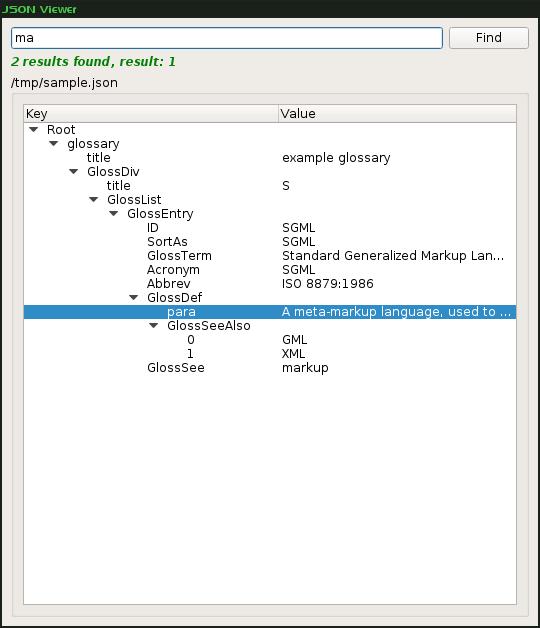
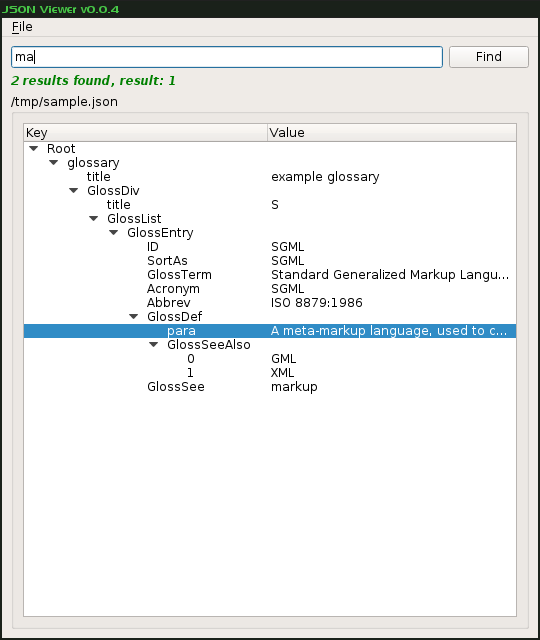
Minor changes, version bump, update screeny

Changed region(s): [[0.0, 0.0, 0.9778, 0.6354]]

diff --git a/json_viewer.py b/json_viewer.py
@@ -3,7 +3,7 @@
 __author__ = "Ashwin Nanjappa, Abdul Arfan, Zhangxiao, Krayon";
 __credits__ = ["Ashwin Nanjappa", "Abdul Arfan", "Zhangxiao", "Krayon"];
 __license__ = "Apache 2.0";
-__version__ = "0.0.4";
+__version__ = "0.0.5";
 __maintainer__ = "Krayon";
 __email__ = "krayon.git@qdnx.org";
 
@@ -24,6 +24,8 @@ from PyQt5           import QtCore;
 from PyQt5           import QtGui;
 from PyQt5           import QtWidgets;
 from PyQt5.QtWidgets import QFileDialog, QAction;
+
+win_title = "JSON Viewer v%s" % (__version__);
 
 class TextToTreeItem: #{
 
@@ -232,7 +234,7 @@ class JsonViewer(QtWidgets.QMainWindow): #{
         filemenu.addAction(exitaction);
 
         self.setCentralWidget(self.json_view);
-        self.setWindowTitle("JSON Viewer");
+        self.setWindowTitle(win_title);
         self.show();
     #}
 
@@ -284,7 +286,7 @@ def main(): #{
         # Too many parameters
         dialog = QtWidgets.QMessageBox();
         dialog.setIcon(QtWidgets.QMessageBox.Critical);
-        dialog.setWindowTitle('JSON Viewer');
+        dialog.setWindowTitle(win_title);
         dialog.setText('ERROR: Too many parameters specified');
         dialog.setStandardButtons(QtWidgets.QMessageBox.Close);
         dialog.setDefaultButton(QtWidgets.QMessageBox.Close);
